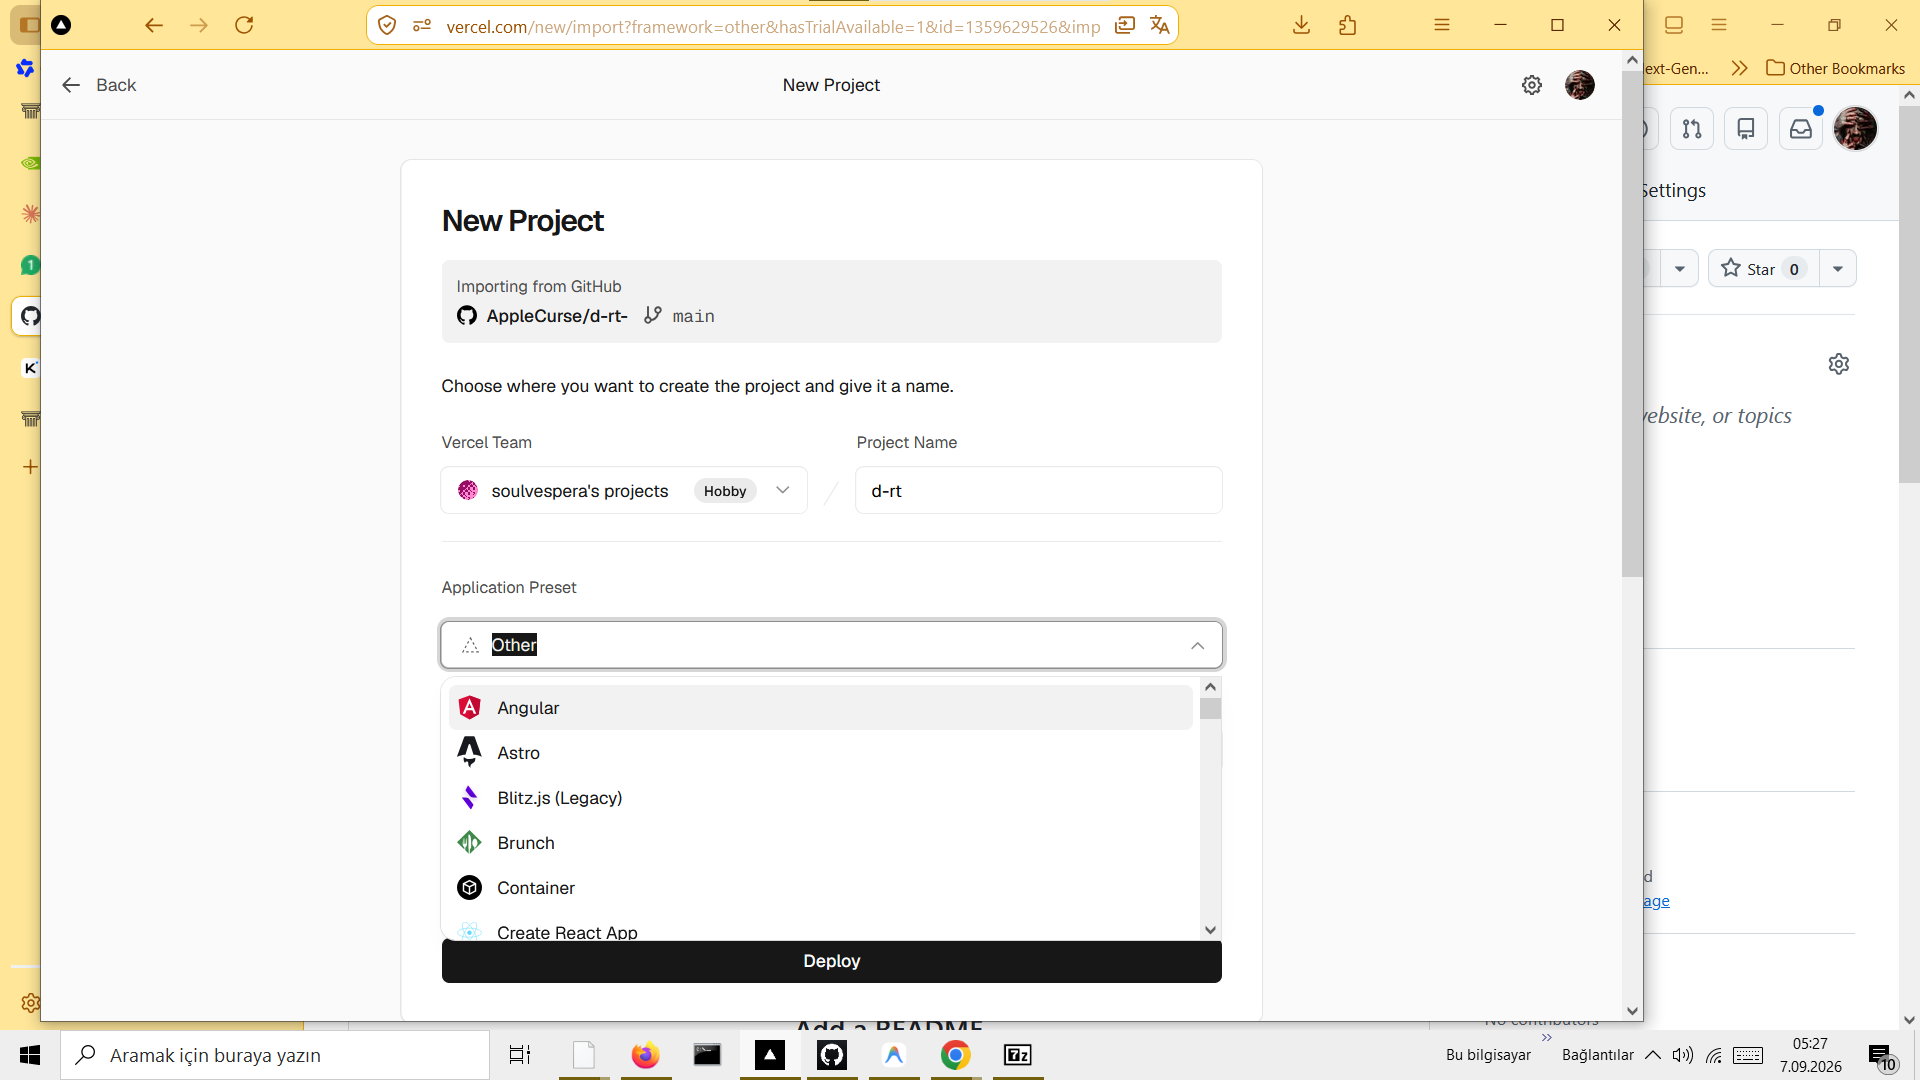
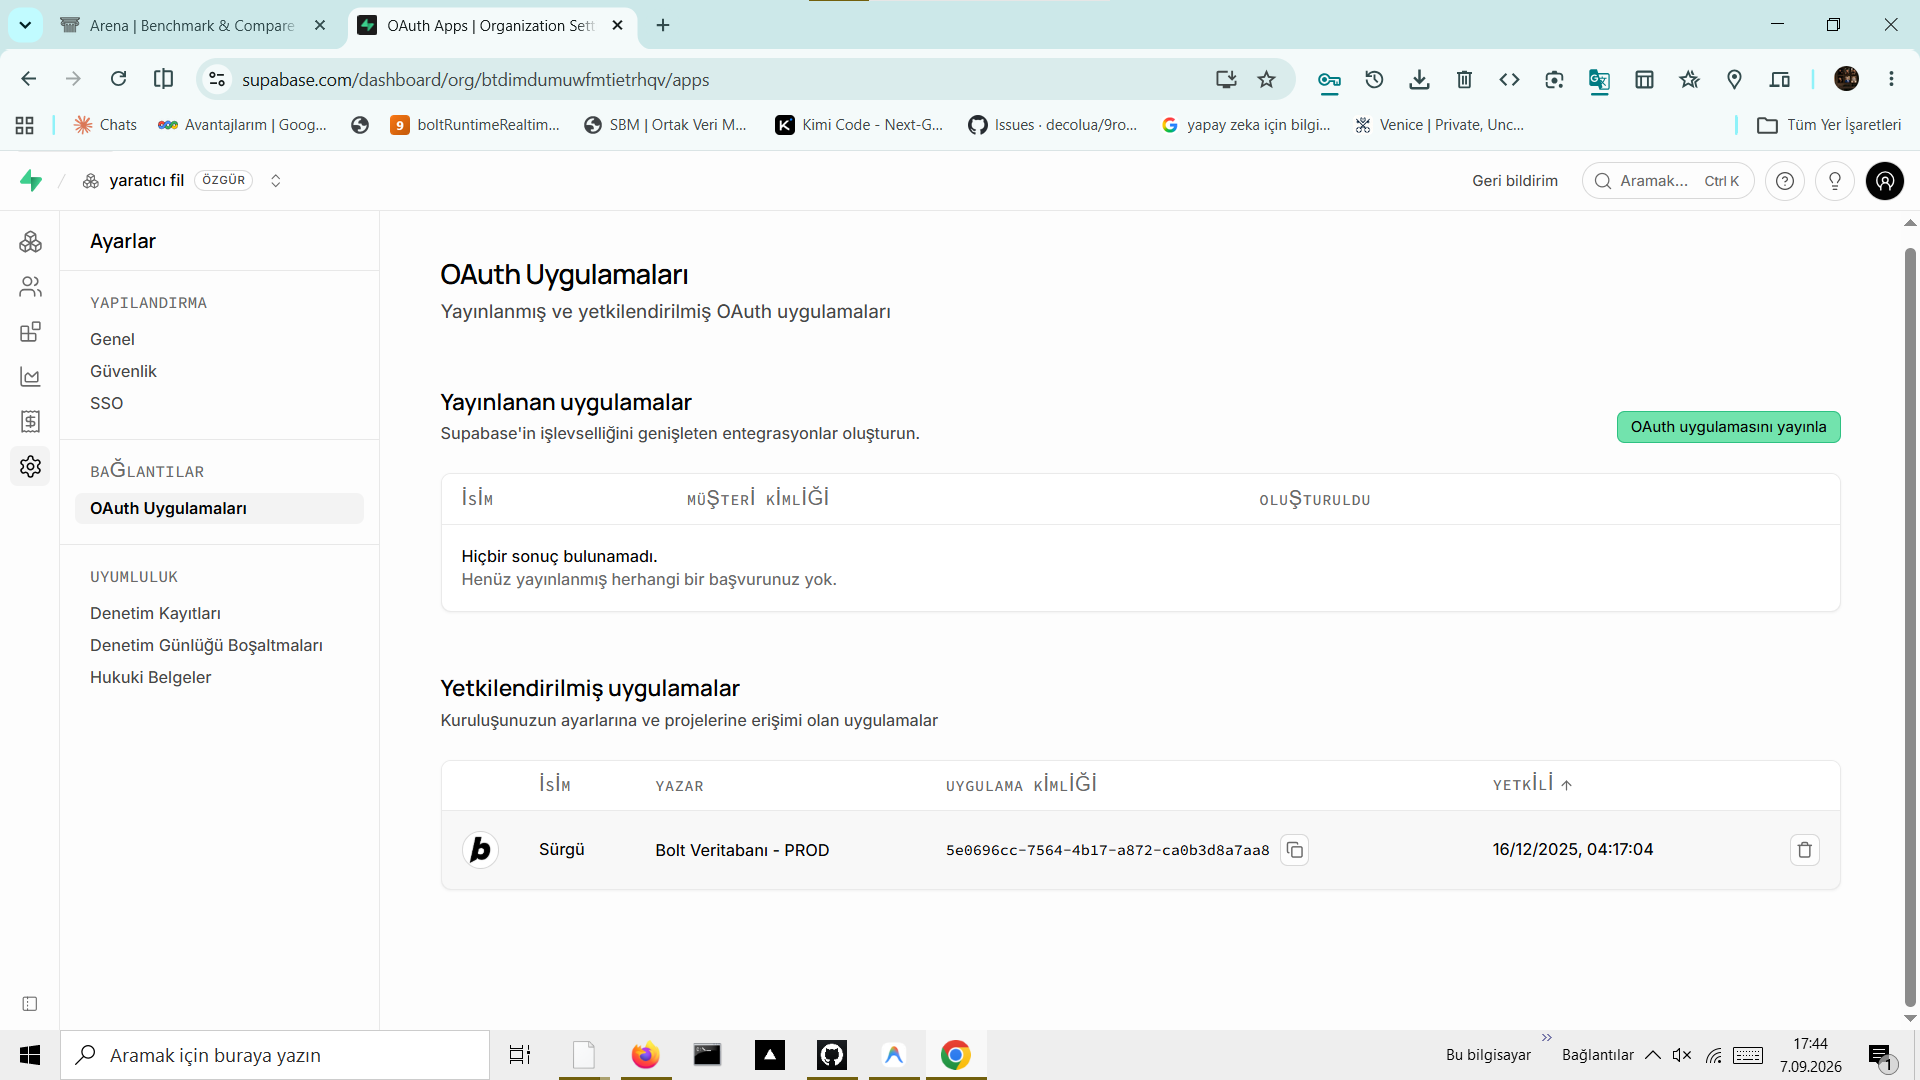
item 1-2-3 CANLI: Supabase 'Geçiş Masası' bağlandı — hesap/bulut kayıt/başvurular aktif (e-posta onayı kapalı, RLS aktif)

diff --git a/durtu/index.html b/durtu/index.html
@@ -2822,8 +2822,8 @@ function rouSettle(n, bet){
 /* ── AYAR: Supabase proje URL ve anon public key buraya yapıştırılınca
       hesap sistemi otomatik devreye girer; boş kalırsa site localStorage
       demosu olarak çalışmaya devam eder (ağsız, güvenli geri düşüş). ── */
-const SUPA_URL  = '';   // örn. https://abcdefgh.supabase.co
-const SUPA_ANON = '';   // anon public key
+const SUPA_URL  = 'https://rkrrmuvdlwdeiummnnkv.supabase.co';
+const SUPA_ANON = 'eyJhbGciOiJIUzI1NiIsInR5cCI6IkpXVCJ9.eyJpc3MiOiJzdXBhYmFzZSIsInJlZiI6InJrcnJtdXZkbHdkZWl1bW1ubmt2Iiwicm9sZSI6ImFub24iLCJpYXQiOjE3NjU4MjgwODIsImV4cCI6MjA4MTQwNDA4Mn0.A_EvPB9SoohIqdIUgBvcwV_El2HwksKXKU2Q6iW9Gvc';
 function supaEnabled(){ return SUPA_URL.length > 10 && SUPA_ANON.length > 20; }
 
 const SUPA = { sess: null };
